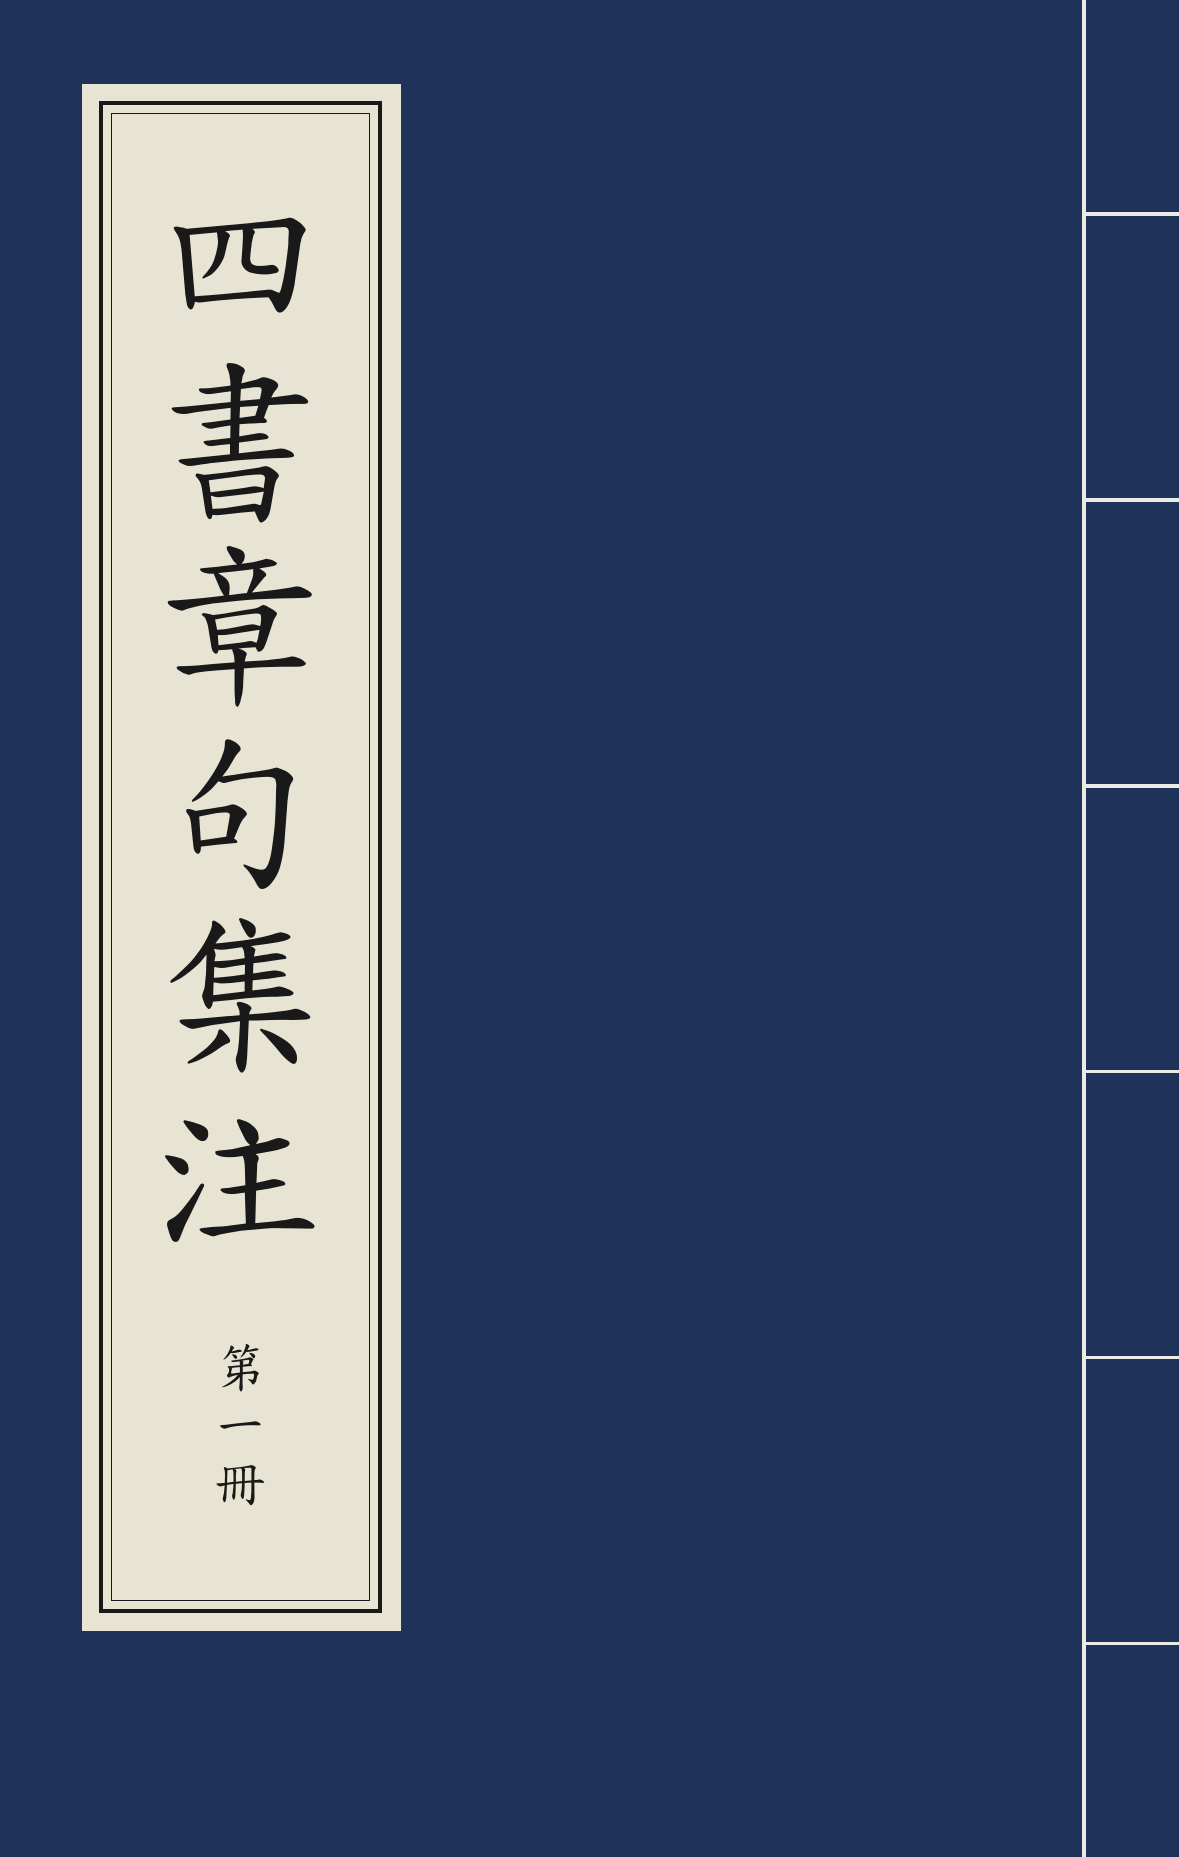
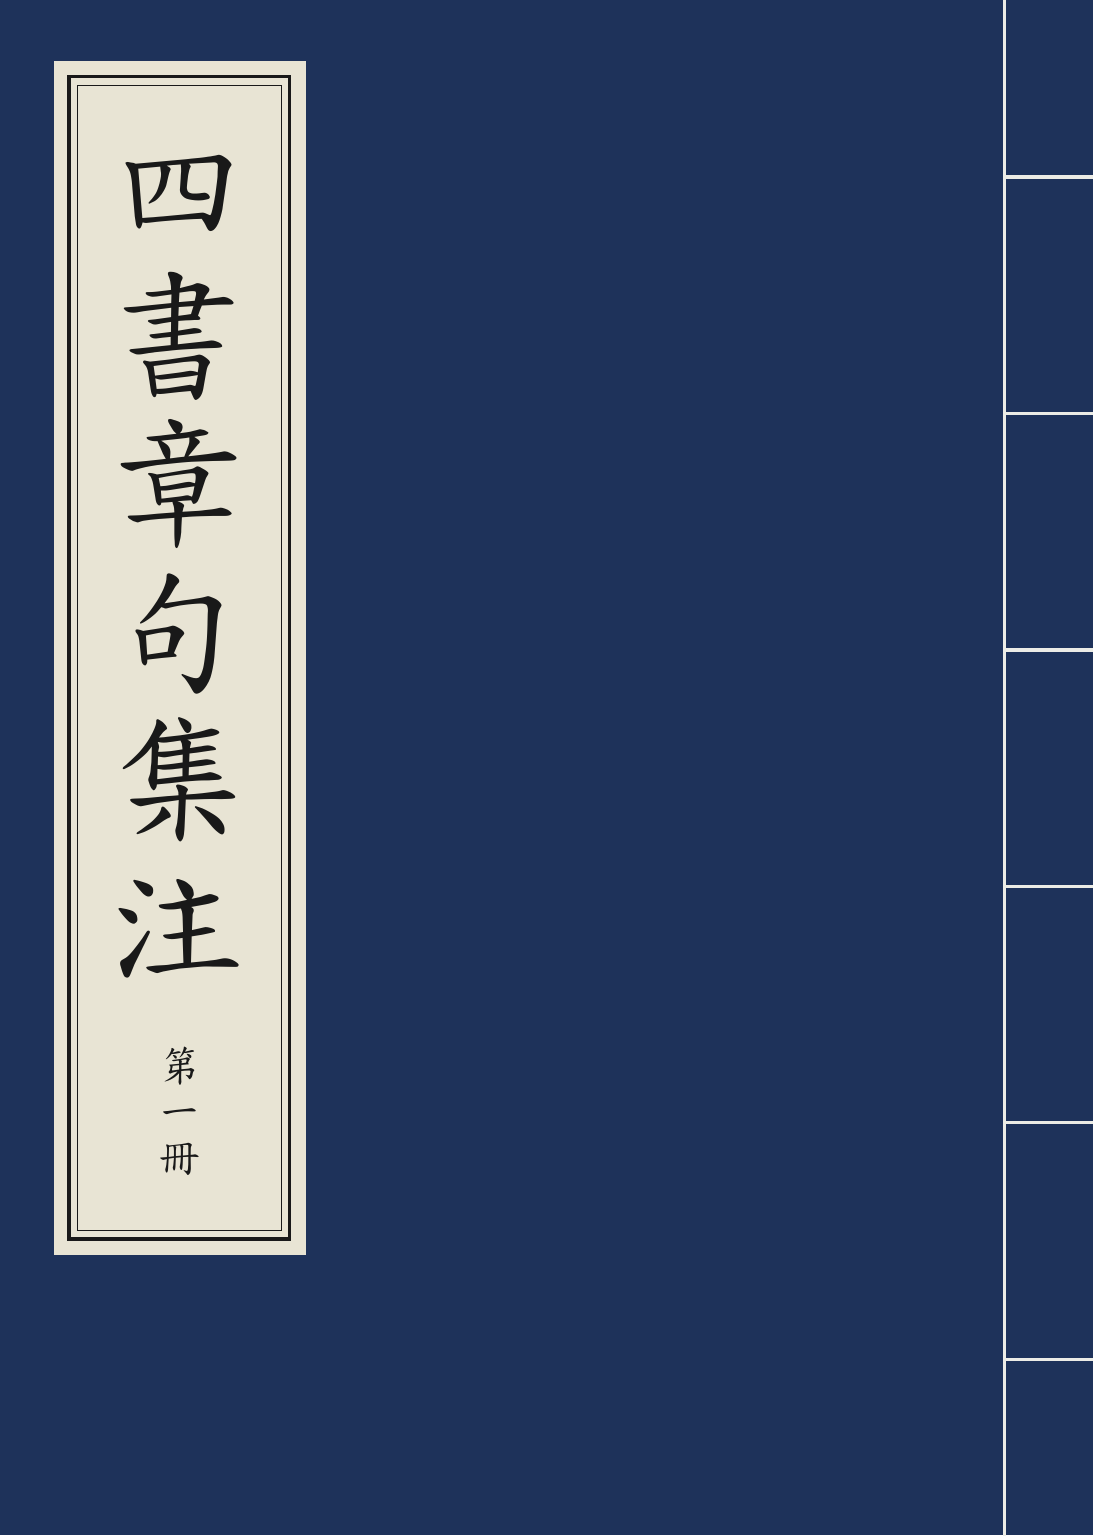
fix: 线装书封面签条收紧，比例对照实物照片调整
对照 issue 附图（四書章句集注等）：签条宽 页宽27%→23%，左距 7%→5%，
上距 4.5%→4%，最小高 55%→50%，书名字号 0.55→0.56 签宽，
框内上下留白 0.3→0.2 字，书名与册次间距 0.6→0.45 字。
示例与回归测试改用 16 开成品尺寸 185×260mm（原用默认页面，偏窄长，
使签条显得过大）。

Claude-Session: https://claude.ai/code/session_01Yayw5sYvR9ijihZEZBbCC2

Changed region(s): [[0.0311, 0.0312, 0.3422, 0.9062]]

diff --git a/示例/线装书封面/封面.tex b/示例/线装书封面/封面.tex
@@ -4,6 +4,8 @@
 \documentclass[四库全书]{ltc-guji}
 \setmainfont{TW-Kai}
 \无标点模式
+% 16 开线装本成品 185 × 260 mm（paper-width 是对开的双页宽度）
+\pageSetup{paper-width=370mm, paper-height=260mm}
 
 \begin{document}
 

diff --git a/test/regression_test/basic/tex/thread-cover.tex b/test/regression_test/basic/tex/thread-cover.tex
@@ -5,6 +5,7 @@
 \documentclass[四库全书]{ltc-guji}
 \setmainfont{TW-Kai}
 \无标点模式
+\pageSetup{paper-width=370mm, paper-height=260mm}
 
 \begin{document}
 \线装书封面[册次=第一冊, 订线]{史記}

diff --git a/示例/线装书封面/README.md b/示例/线装书封面/README.md
@@ -7,13 +7,15 @@
 |:---:|:---:|:---:|:---:|
 | ![](page-4.png) | ![](page-3.png) | ![](page-2.png) | ![](page-1.png) |
 
+页面尺寸：示例用 16 开线装本成品 185 × 260 mm（`\pageSetup{paper-width=370mm, paper-height=260mm}`，`paper-width` 是对开双页宽度）；签条比例按此取，页面比例不同时可用 `签条宽` 等键调整。
+
 源码：[封面.tex](封面.tex)　PDF：[封面.pdf](封面.pdf)
 
 ## 版式
 
 - 藏青色封面，封面上只有签条（不印作者、出版者）。
 - 签条贴在左上角，米色纸；内为「文武线」双框（外粗内细），框外留一圈纸边。
-- 书名大字自上而下。签条有最小高度（默认页高的 55%），书名长了签条随之增高；
+- 书名大字自上而下。签条有最小高度（默认页高的 50%），书名长了签条随之增高；
   若增高后超出页面，书名与小字按比例缩小。
 - 册次、卷次小字排在签条下部；两者都给时并排两列（册次在右、卷次在左）。
   也可 `小字位置=随后`，紧跟在书名之后。
@@ -48,11 +50,11 @@
 | `底色` / `background-color` | `30, 50, 90` | 封面色（RGB 0–255 或颜色名） |
 | `签条底色` / `label-color` | `232, 228, 212` | 签条纸色 |
 | `墨色` / `ink-color` | `25, 25, 25` | 书名、小字、框线颜色 |
-| `签条宽` / `label-width` | 页宽 × 0.27 | |
-| `签条左距` / `label-left` | 页宽 × 0.07 | 签条左缘距页面左边 |
-| `签条上距` / `label-top` | 页高 × 0.045 | 签条上缘距页面上边 |
-| `签条最小高` / `label-min-height` | 页高 × 0.55 | |
-| `书名字号` / `title-font-size` | 签条宽 × 0.55 | |
+| `签条宽` / `label-width` | 页宽 × 0.23 | |
+| `签条左距` / `label-left` | 页宽 × 0.05 | 签条左缘距页面左边 |
+| `签条上距` / `label-top` | 页高 × 0.04 | 签条上缘距页面上边 |
+| `签条最小高` / `label-min-height` | 页高 × 0.5 | |
+| `书名字号` / `title-font-size` | 签条宽 × 0.56 | |
 | `小字字号` / `small-font-size` | 书名字号 × 0.3 | |
 
 文武线粗细、两线间距、纸边宽度均按签条宽比例取（外粗线 1.3%、内细线 0.4%、间距 2.5%、纸边 5.5%）。
